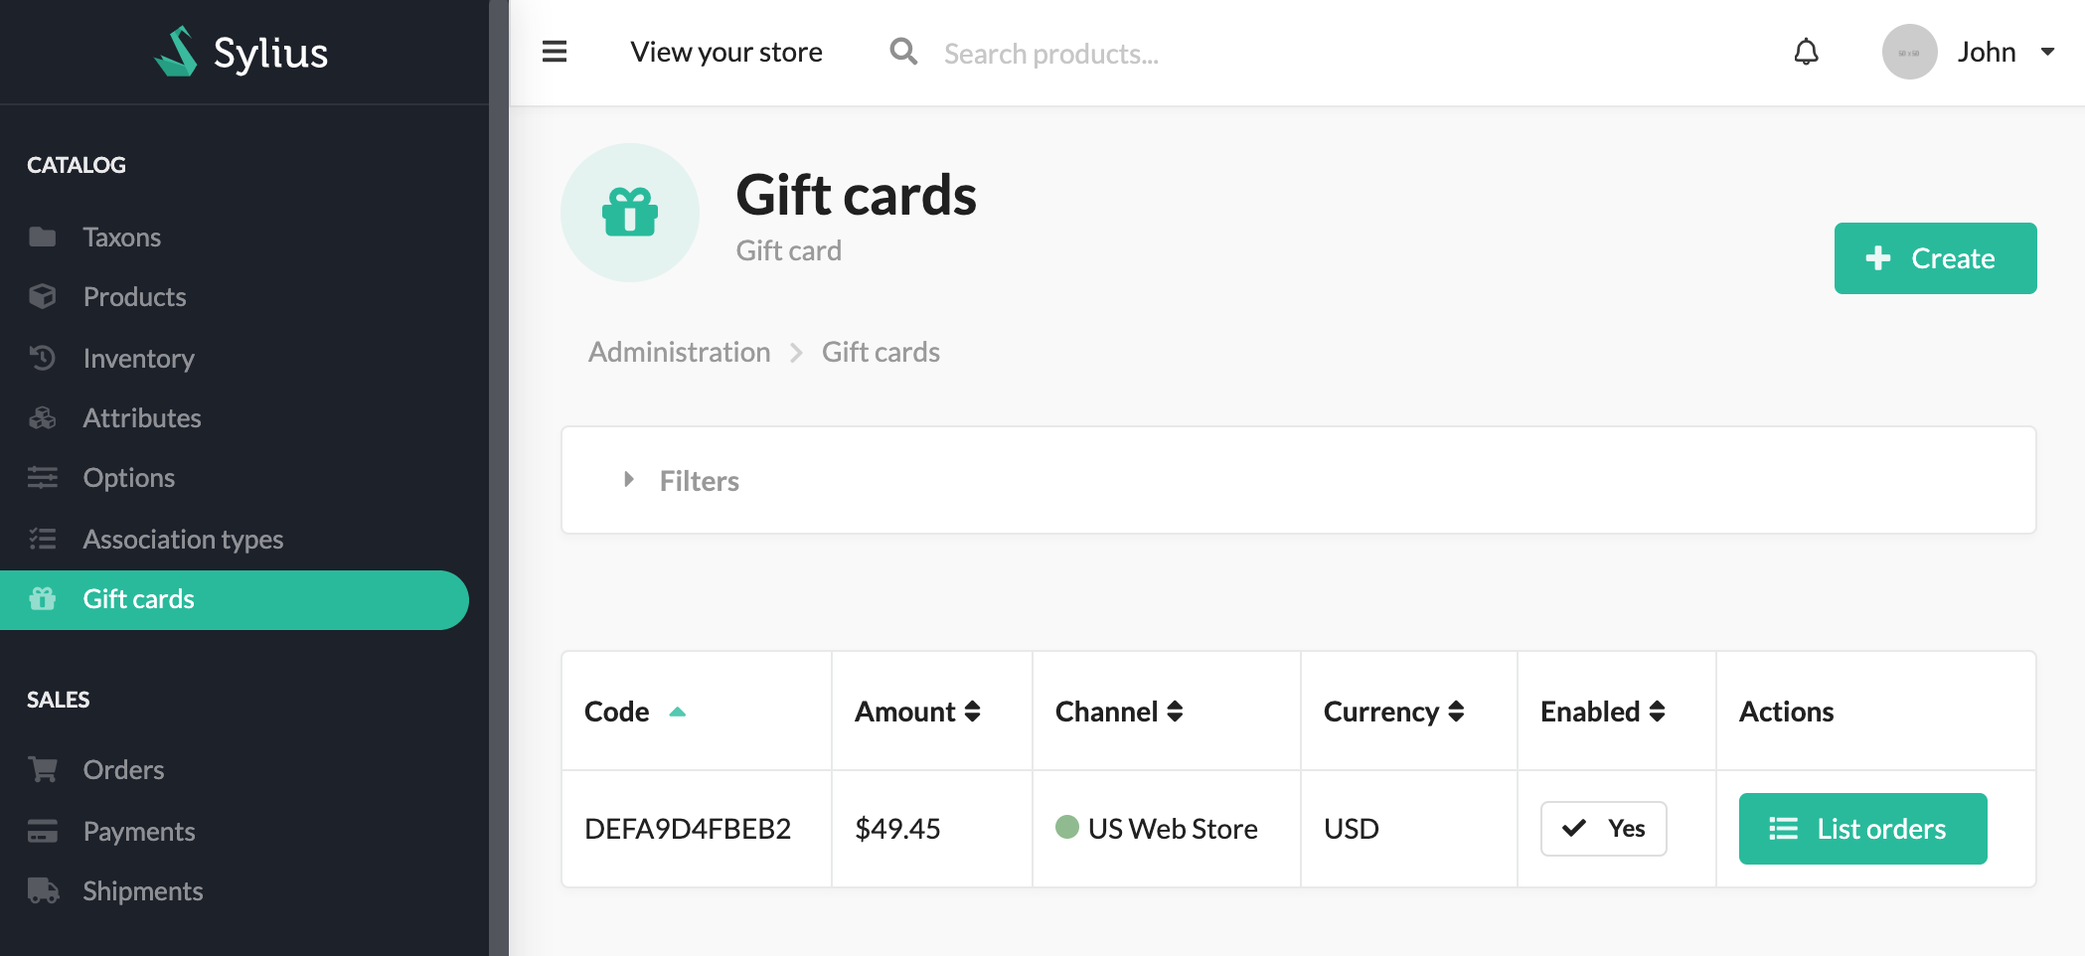
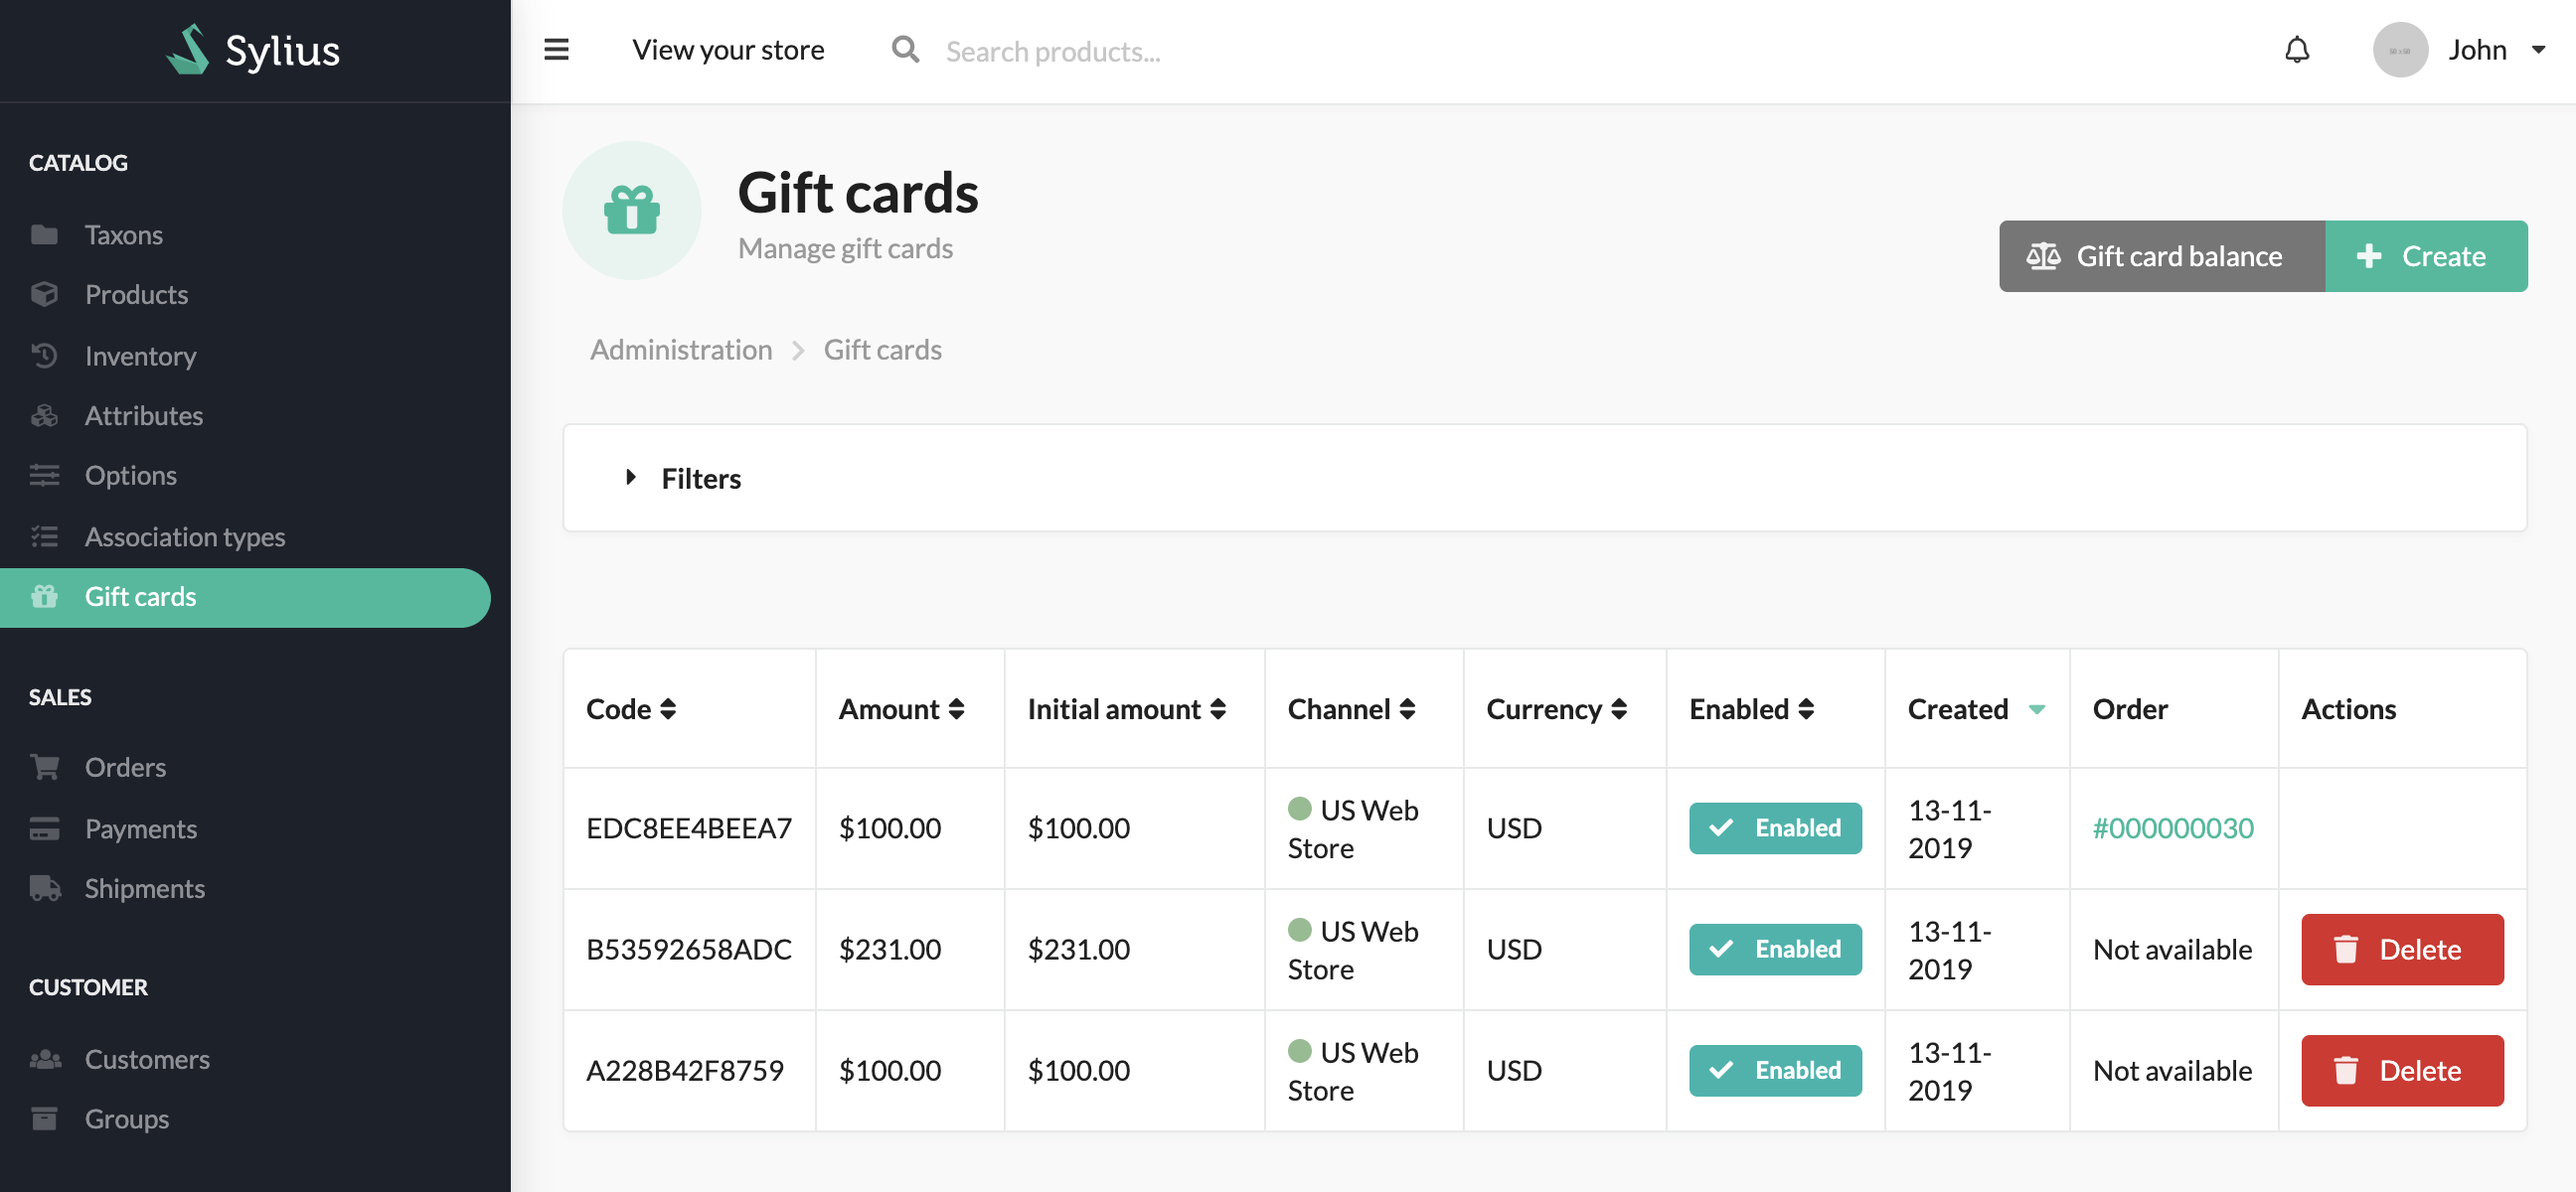
Updated readme with newer screenshot

diff --git a/README.md b/README.md
@@ -7,9 +7,11 @@
 
 ## Screenshots
 
+▶▶ [Skip screenshots and go to installation](#Installation)
+
 ![Screenshot showing admin menu and index](docs/images/admin-menu.png)
 
-![Screenshot showing gift card admin create page](docs/images/admin-gift-card-code-create.png)
+![Screenshot showing gift card admin create page](docs/images/admin-gift-card-create.png)
 
 ## Installation
 
